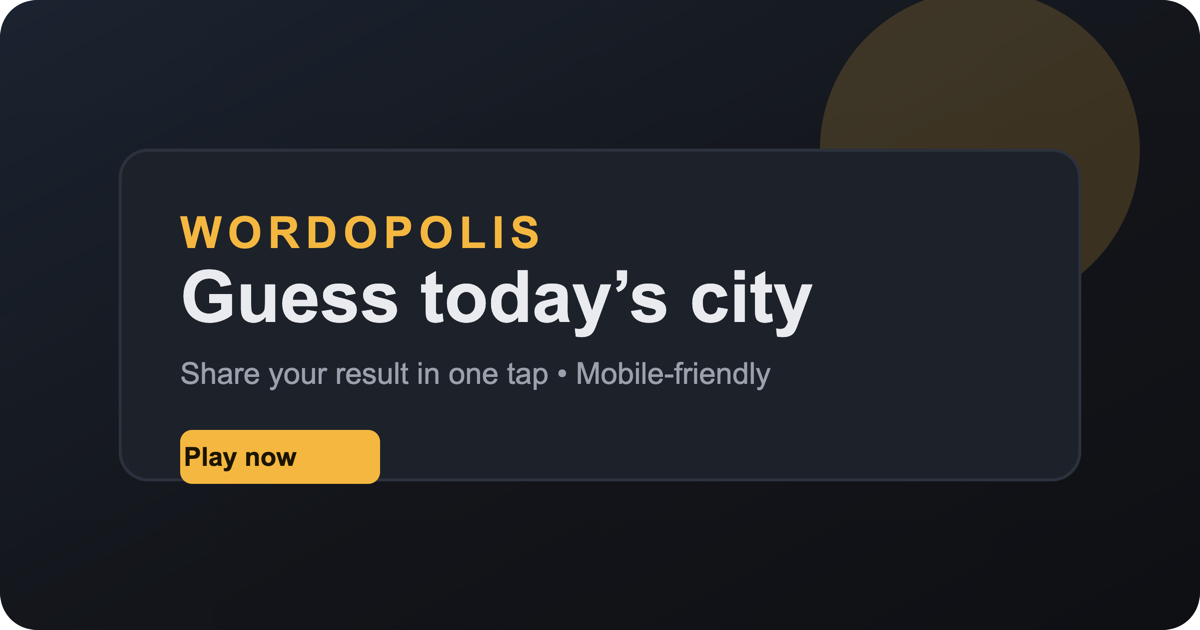
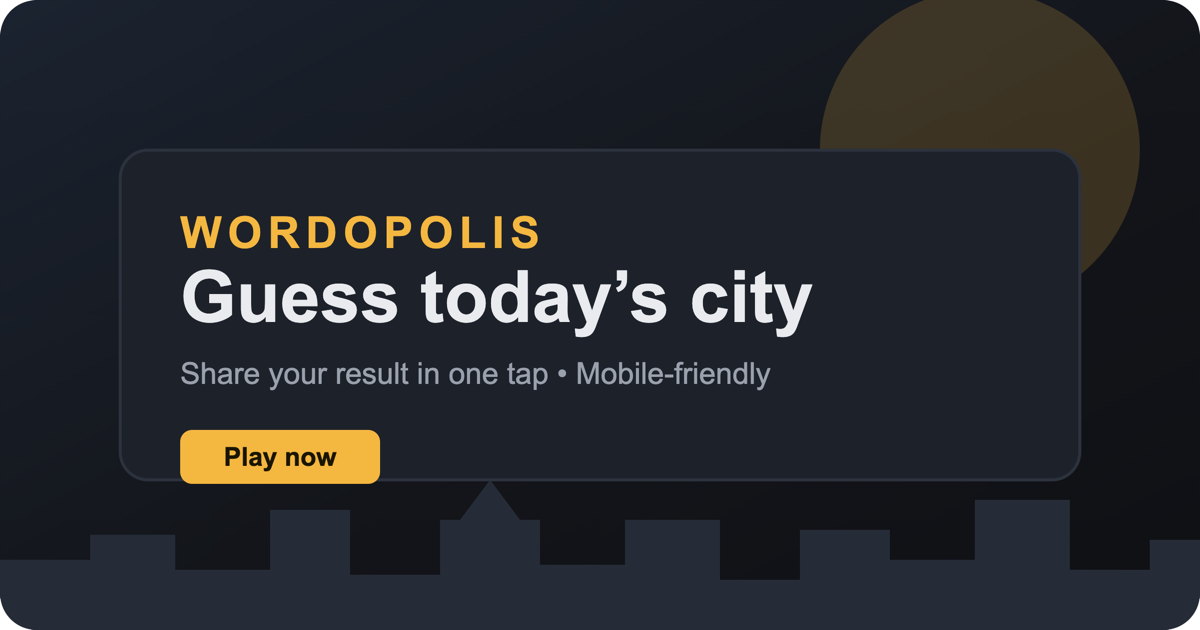
Improve share text and social preview card
Share text now labels the point total ("Score: Npts") and drops the
trailing "Play:" URL line, since mobile share sheets already attach
the page URL separately. Social preview card centers the "Play now"
button label and adds the skyline silhouette (no text) along the
bottom for consistency with the app icon.

Changed region(s): [[0.0, 0.754, 1.0, 1.0], [0.1542, 0.6937, 0.2775, 0.754]]

diff --git a/index.html b/index.html
@@ -619,8 +619,7 @@ function buildShare(){
   const score = won ? guesses.length : 'X';
   const hintMark = hintsUsed ? ` (${hintsUsed}💡)` : '';
   const modeLabel = currentMode === 'practice' ? 'Practice' : 'Daily';
-  const shareUrl = window.location.href;
-  return `Wordopolis ${modeLabel} #${currentPuzzleLabel}  ${score}/${MAX_GUESSES}${hintMark}  ${computeScore()}pts\n` + lines.join('\n') + `\n\nPlay: ${shareUrl}`;
+  return `Wordopolis ${modeLabel} #${currentPuzzleLabel}  ${score}/${MAX_GUESSES}${hintMark}  Score: ${computeScore()}pts\n` + lines.join('\n');
 }
 document.getElementById('shareBtn').addEventListener('click', async ()=>{
   const text = buildShare();
